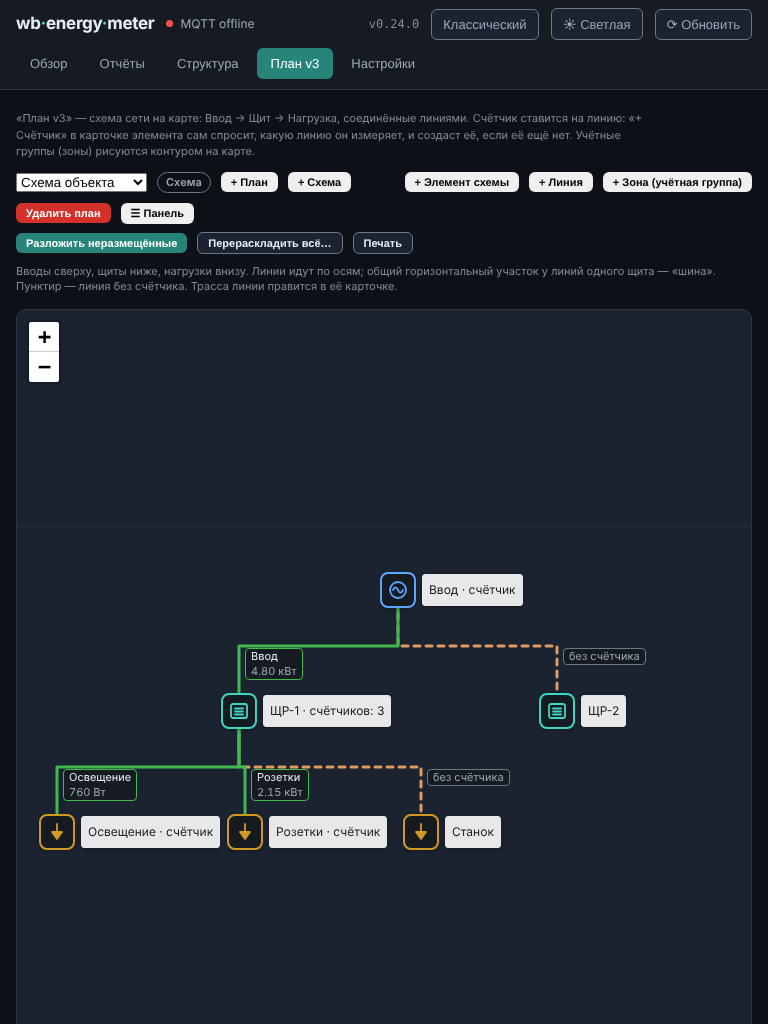
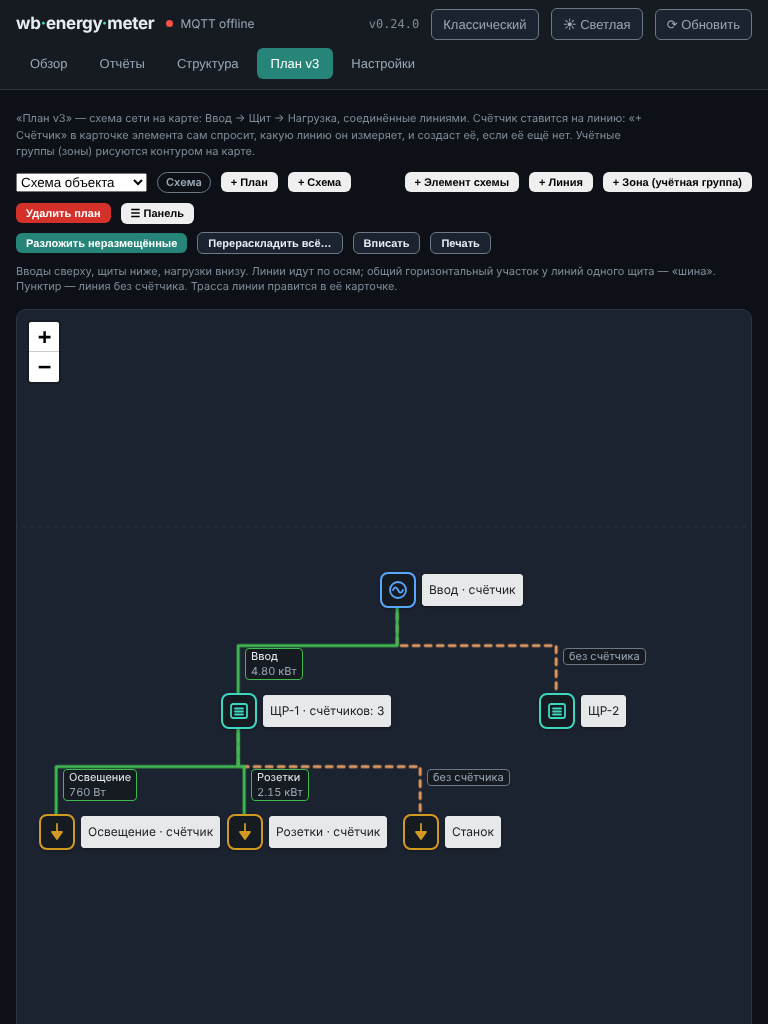
fix(ui): «Вписать» вместо авто-вписывания при открытии; тесты b18/b23
Авто-вписывание схемы по содержимому при открытии (7340e7b) сдвигало вид у
всех схем и ломало сценарии, кликающие по фиксированным координатам холста
(b17, шаг 15). Открытие плана снова вписывает весь холст; вписывание по
содержимому (не мельче 1:1) остаётся после автораскладки и её отмены и
вынесено в кнопку «Вписать» (data-testid=sl-fit).
test_b18: уведомление об уменьшении картинки ждётся, а не читается сразу
(гонка при медленной загрузке); test_b23: проверка вписанного вида — все
значки на экране, масштаб не крупнее 1:1, и кнопка «Вписать».

Эталон app(): 800 ключей; _slFitContent переименован в slFitContent
(публичный: вызывается кнопкой), других изменений нет.

Claude-Session: https://claude.ai/code/session_01KBC7yXKFasE38c2ZHxbYoW

diff --git a/wb_energy_meter/static/js/single-line.js b/wb_energy_meter/static/js/single-line.js
@@ -121,11 +121,12 @@ window.addEventListener('afterprint', ()=>{
           return k ? k.label : 'Элемент';
         },
 
-      // Вписать в окно то, что нарисовано, а не весь холст, и не мельче натуральной величины:
+      // «Вписать» (и после автораскладки): вписать в окно то, что нарисовано, а не весь холст, и не
+      // мельче натуральной величины:
       // подписи имеют фиксированный размер в экранных px, а зазоры между значками уменьшаются
       // вместе с масштабом — при масштабе < 1 подпись налезала бы на соседний значок. Пустую
       // схему вписываем целиком. Справа оставляем место под подпись самого правого значка.
-      _slFitContent(){
+      slFitContent(){
           const pc=this.planV3Current;
           if(!_planV3Map || !pc) return;
           const [W,H]=this._planV3EffectiveDims(pc);
@@ -513,7 +514,7 @@ window.addEventListener('afterprint', ()=>{
             itemIds:(now.items||[]).filter(i=>!before.items.has(i.id)).map(i=>i.id),
             viewIds:(now.edges||[]).filter(v=>!before.views.has(v.id)).map(v=>v.id),
           };
-          this._slFitContent();
+          this.slFitContent();
           this.showToast('Раскладка применена: размещено '+created.length+', перемещено '+moved.length+
                          '. Её можно отменить.', true);
           this._slLoadBalances();
@@ -552,7 +553,7 @@ window.addEventListener('afterprint', ()=>{
             if(!r.ok){ this.showToast(this._apiErrorMessage(d, r.status), false); return; }
             this.slUndo=null;
             await this.reloadPlanV3Items();
-            this._slFitContent();
+            this.slFitContent();
             this.showToast('Автораскладка отменена: прежние положения возвращены', true);
           }catch(e){ this.showToast('Ошибка сети: '+e, false); }
           finally{ this.slAutoBusy=false; }

diff --git a/wb_energy_meter/static/index.html b/wb_energy_meter/static/index.html
@@ -2894,6 +2894,8 @@ path.sl-line-bad{stroke-dasharray:2,5}
           <button class="btn btn-sm btn-secondary" data-testid="sl-undo" :disabled="slAutoBusy"
                   x-show="slUndo && planV3Current && slUndo.planId===planV3Current.id"
                   @click="slUndoAuto()">Отменить автораскладку</button>
+          <button class="btn btn-sm btn-secondary" data-testid="sl-fit" @click="slFitContent()"
+                  title="Показать нарисованное в натуральную величину (не мельче 1:1), чтобы подписи не налезали друг на друга">Вписать</button>
           <button class="btn btn-sm btn-secondary" data-testid="sl-print" @click="slPrint()">Печать</button>
           <span class="feed-stale" data-testid="sl-stale" x-show="feedStale('sl-live')"
                 x-text="'Мощность линий: '+feedStaleText('sl-live')"></span>

diff --git a/wb_energy_meter/static/js/plan-v3.js b/wb_energy_meter/static/js/plan-v3.js
@@ -1042,9 +1042,7 @@ function _planV3FreeSpot(o){
           // Партия 13, 13.8 (плавающие b02/b03): без анимации. Анимированный зум идёт ~250 мс,
           // и клик по карте посреди него пересчитывается в координаты ещё не вписанного вида —
           // «Точка вне границ плана» сразу после создания плана, чаще на медленном процессоре.
-          // Схему вписываем по содержимому (single-line.js::_slFitContent), план этажа — по картинке.
-          if(this.planV3IsScheme()) this._slFitContent();
-          else _planV3Map.fitBounds(bounds, {animate:false});
+          _planV3Map.fitBounds(bounds, {animate:false});
           return true;
         }
     };

diff --git a/tests/browser/test_b23_single_line.py b/tests/browser/test_b23_single_line.py
@@ -158,8 +158,23 @@ def main() -> int:
               "все значки внутри холста")
         check(page.evaluate(APP + ".slUnplacedCount()") == 0, "список неразмещённых пуст")
         page.wait_for_timeout(600)
-        zoom = page.evaluate("_planV3Map.getZoom()")
-        check(abs(zoom) < 0.01, f"после раскладки схема вписана по содержимому в натуральную величину (zoom {zoom})")
+        # схема вписана по содержимому и не мельче необходимого: все значки на экране, масштаб не больше 1:1
+        view = page.evaluate("""() => { const r = _planV3Map.getContainer().getBoundingClientRect();
+            const inside = [..._planV3ItemLayers.values()].every(l => { const a = l._icon.getBoundingClientRect();
+              return a.left >= r.left && a.right <= r.right && a.top >= r.top && a.bottom <= r.bottom; });
+            return {zoom: _planV3Map.getZoom(), inside}; }""")
+        check(view["inside"] and view["zoom"] <= 0.01,
+              f"после раскладки схема вписана по содержимому: все значки на экране, масштаб не крупнее 1:1 ({view})")
+        # кнопка «Вписать»: из любого масштаба возвращает такой же вид
+        page.evaluate("_planV3Map.setView([300, 300], -2, {animate: false})")
+        page.click("[data-testid=sl-fit]")
+        page.wait_for_timeout(300)
+        view2 = page.evaluate("""() => { const r = _planV3Map.getContainer().getBoundingClientRect();
+            const inside = [..._planV3ItemLayers.values()].every(l => { const a = l._icon.getBoundingClientRect();
+              return a.left >= r.left && a.right <= r.right && a.top >= r.top && a.bottom <= r.bottom; });
+            return {zoom: _planV3Map.getZoom(), inside}; }""")
+        check(view2["inside"] and abs(view2["zoom"] - view["zoom"]) < 0.01,
+              f"«Вписать» возвращает вписанный вид ({view2})")
 
         # ---- 3. рамки значков и подписей не пересекаются ----------------------------
         boxes = page.evaluate("""() => {

diff --git a/tests/browser/test_b18_plan_background.py b/tests/browser/test_b18_plan_background.py
@@ -236,8 +236,14 @@ def main() -> int:
         check((pw.get("image_width"), pw.get("image_height")) == (8192, 1092),
               f"9000×1200 браузер уменьшил до 8192×1092 и загрузил: "
               f"{pw.get('image_width')}×{pw.get('image_height')}")
-        check("уменьшил её до 8192×1092" in page.inner_text("body"),
-              "сообщение: картинка была больше 8192 px — браузер уменьшил её до 8192×1092")
+        # уведомление появляется после загрузки списка и открытия плана — ждём его, а не читаем сразу
+        try:
+            page.wait_for_function(
+                "() => document.body.innerText.includes('уменьшил её до 8192×1092')", timeout=8000)
+            noted = True
+        except Exception:
+            noted = False
+        check(noted, "сообщение: картинка была больше 8192 px — браузер уменьшил её до 8192×1092")
 
         # Ровно один ожидаемый отказ сервера — шаг 6 («не картинка» → 400); как
         # 409 в b07/b08, браузер пишет его в консоль сам. Других ошибок быть не должно.

diff --git a/tests/browser/shots.py b/tests/browser/shots.py
@@ -110,6 +110,8 @@ def main() -> int:
                     if screen == "scheme":
                         page.evaluate(f"{APP}.selectPlanV3({scheme_id})")
                         page.wait_for_timeout(2500)
+                        page.evaluate(f"{APP}.slFitContent()")   # кнопка «Вписать»
+                        page.wait_for_timeout(500)
                     elif screen == "planv3-node":
                         page.evaluate(f"{APP}.openInspectorInPlace('node', {info['shr1']['id']!r})")
                         page.wait_for_timeout(1500)

diff --git a/docs/browser-checklist-plan-v3.md b/docs/browser-checklist-plan-v3.md
@@ -560,14 +560,15 @@
     **Должно получиться:** создана схема (в списке планов — группа «Однолинейные
     схемы», рядом с названием плана метка «Схема»); справа в блоке
     «Неразмещённые на схеме (N)» — все элементы; в строке кнопок схемы есть
-    «Разложить неразмещённые (N)», «Перераскладить всё…», «Печать».
+    «Разложить неразмещённые (N)», «Перераскладить всё…», «Вписать», «Печать».
 63. Нажмите «Разложить неразмещённые». **Должно получиться:** вводы сверху, щиты
     ниже, нагрузки нижним рядом; значки не налезают друг на друга и на подписи;
     все линии идут только по горизонтали и вертикали; линии одного щита делят
     общий горизонтальный участок («шина»); линия без счётчика — пунктиром;
     у линии подпись «имя · P · загрузка» или «без счётчика»; у щита с определённым
     балансом под названием — «Δ ±N кВт·ч (±P%)». Блок «Неразмещённые» пуст.
-    Схема показана в натуральную величину (не мельче 1:1), подписи читаются.
+    После раскладки (и по кнопке «Вписать») схема показана в натуральную величину
+    (не мельче 1:1), подписи читаются и не налезают на соседние значки.
 64. Сдвиньте значок мышью. **Должно получиться:** его линии перестраиваются прямо
     при перетаскивании; после отпускания положение сохраняется (перезагрузите
     страницу — значок там же). Другие значки не двигаются.

diff --git a/CHANGELOG.md b/CHANGELOG.md
@@ -17,7 +17,7 @@
 В `tests/fixtures/app_keys_baseline.json` 730 → 800 ключей `app()` (71 добавлено,
 1 удалён — `planV3ReplaceBackground`, заменён на `pbgPick`): `sl*`/`_sl*` (схема:
 раскладка, трассы, баланс, печать, новая схема), `pbg*`/`_pbg*` (замена подложки),
-`planV3IsScheme`; перечень — в сообщениях коммитов (§2.7).
+`planV3IsScheme`, `slFitContent`; перечень — в сообщениях коммитов (§2.7).
 
 ### Добавлено
 
@@ -37,6 +37,9 @@
   (Geoman `Line`, углы привязываются к осям, конец — двойной щелчок) и «Сделать
   автоматической»; ручная трасса, у которой после сдвига значка появились
   косые отрезки, помечается «ручная, не по осям».
+- **«Вписать»** (схема): показывает нарисованное в натуральную величину (не мельче
+  1:1), чтобы подписи не налезали на соседние значки; то же делается после
+  автораскладки и её отмены. При открытии карта по-прежнему вписывает весь холст.
 - **Планы и схемы вместе**: выбор вида в списке («Планы этажей» / «Однолинейные
   схемы»), метка вида, «+ Схема», блок «Неразмещённые на схеме (N)», все действия v3
   (карточки, «+ Счётчик», архивация, «Убрать с плана») работают на схеме, `@media print`

diff --git a/docs/design-single-line.md b/docs/design-single-line.md
@@ -70,11 +70,11 @@ Geoman `Line` + привязку к осям из `scheme-layout.js` (`snapOrtho
 `_pollTick`; новых таймеров нет. Для схем `plan-v3.js` вызывает отрисовку
 `single-line.js`; поведение плана этажа не меняется.
 
-**Вид.** Схема вписывается в окно по содержимому (`_slFitContent`), а не по всему
-холсту, и не мельче 1:1: подписи имеют фиксированный размер в экранных px, а зазоры
-между значками уменьшаются вместе с масштабом — на мелком масштабе подпись налезала
-бы на соседний значок. Пустая схема вписывается целиком; печать вписывает весь холст
-в лист (`beforeprint`).
+**Вид.** При открытии карта вписывает весь холст (как у любого плана). Кнопка «Вписать» и
+автораскладка (с отменой) вписывают то, что нарисовано (`slFitContent`), не мельче 1:1:
+подписи имеют фиксированный размер в экранных px, а зазоры между значками уменьшаются
+вместе с масштабом — на мелком масштабе подпись налезала бы на соседний значок. Пустая
+схема вписывается целиком; печать вписывает весь холст в лист (`beforeprint`).
 
 ## 3. Ограничения
 
